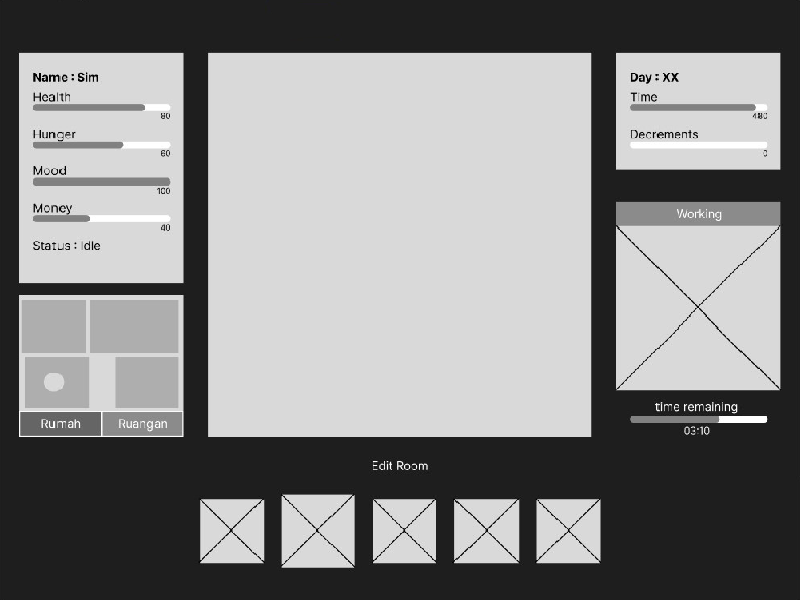
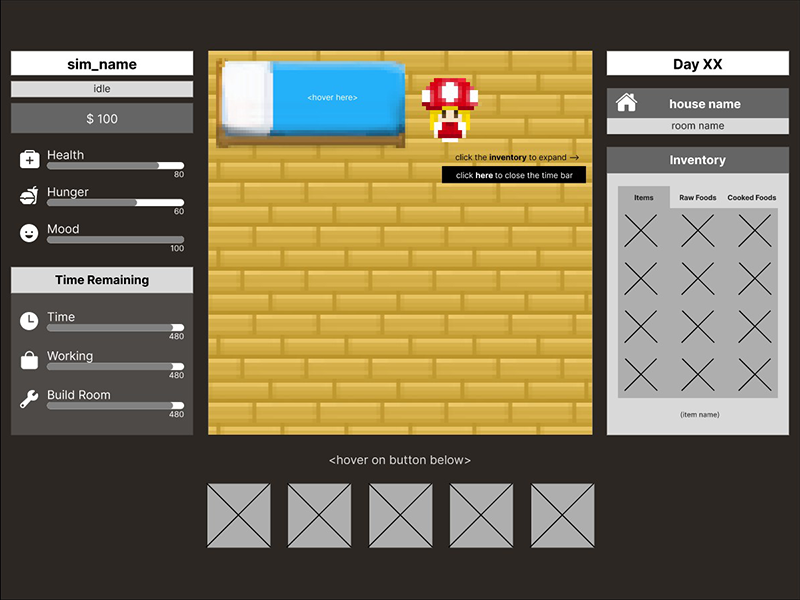
updated mockup ui

diff --git a/src/main/UserInterface.java b/src/main/UserInterface.java
@@ -23,11 +23,11 @@ public class UserInterface {
     private BufferedImage mockup;
 
     // Selection Box Attributes
-    private int selectedBoxX = 196 - 8;  // Initial x position of selected box
-    private int selectedBoxY = 500 - 8;  // Initial y position of selected box
-    private int selectedBoxWidth = Consts.SCALED_TILE + 16;  // Width of selected box
-    private int selectedBoxHeight = Consts.SCALED_TILE + 16;  // Height of selected box
-    private int boxStep = 86;  // Amount to change box position with each key press
+    private int selectedBoxX = 207 - 4;  // Initial x position of selected box
+    private int selectedBoxY = 483 - 4;  // Initial y position of selected box
+    private int selectedBoxWidth = Consts.SCALED_TILE + 8;  // Width of selected box
+    private int selectedBoxHeight = Consts.SCALED_TILE + 8;  // Height of selected box
+    private int boxStep = 81;  // Amount to change box position with each key press
     private int selectedBox = 0; // Boxes starting from 0 to 4
 
     public UserInterface(Sim sim, GameTime time) {
@@ -105,19 +105,26 @@ public class UserInterface {
 
     public void draw(Graphics2D g) {
         // ONLY FOR DEBUGGING
-        // g.setColor(new Color(0, 0, 0, 128)); // Transparent black color
+        g.setColor(new Color(0, 0, 0, 128)); // Transparent black color
         
         // Draw box for filling text
+        g.setColor(Color.WHITE);
+        g.fillRect(11, 51, 182, 24); // Sim name
+        g.fillRect(607, 51, 182, 24); // Day number
+        g.setColor(Color.LIGHT_GRAY);
+        g.fillRect(11, 81, 182, 16); // Sim status
+        g.fillRect(11, 266, 182, 28); // Time remaining title
         g.setColor(Color.GRAY);
-        g.fillRect(19, 53, 165, 230); // Sim status
-        g.fillRect(616, 53, 165, 77); // Day number and time remaining
+        g.fillRect(11, 103, 182, 30); // Sim money
+        g.fillRect(11, 294, 182, 58); // Time remaining
+        // g.fillRect(607, 88, 182, 64); // House and Room name
 
         // Draw option boxes
-        g.fillRect(196, 500, Consts.SCALED_TILE, Consts.SCALED_TILE);
-        g.fillRect(282, 500, Consts.SCALED_TILE, Consts.SCALED_TILE);
-        g.fillRect(368, 500, Consts.SCALED_TILE, Consts.SCALED_TILE);
-        g.fillRect(454, 500, Consts.SCALED_TILE, Consts.SCALED_TILE);
-        g.fillRect(540, 500, Consts.SCALED_TILE, Consts.SCALED_TILE);
+        g.fillRect(207, 483, Consts.SCALED_TILE, Consts.SCALED_TILE);
+        g.fillRect(288, 483, Consts.SCALED_TILE, Consts.SCALED_TILE);
+        g.fillRect(369, 483, Consts.SCALED_TILE, Consts.SCALED_TILE);
+        g.fillRect(450, 483, Consts.SCALED_TILE, Consts.SCALED_TILE);
+        g.fillRect(531, 483, Consts.SCALED_TILE, Consts.SCALED_TILE);
 
         // Draw selected box
         if (sim.isStatusCurrently("Tabbed")) {
@@ -125,18 +132,23 @@ public class UserInterface {
             g.fillRect(selectedBoxX, selectedBoxY, selectedBoxWidth, selectedBoxHeight);
             drawSelectedBoxText(g);
         }
+
         drawText(g);
     }
 
     private void drawText(Graphics2D g) {
         Font font;
-        g.setColor(Color.WHITE);
+        g.setColor(Color.BLACK);
 
         font = new Font("Arial", Font.BOLD, 13);
 
         g.setFont(font);
-        g.drawString(sim.getName(), 33, 82);
-        g.drawString("Day : " + time.getDay(), 630, 82);
+        g.drawString(sim.getName(), 83, 68);
+        
+        g.drawString("Day " + time.getDay(), 675, 68);
+        g.drawString("Time Remaining", 53, 285);
+
+        g.setColor(Color.WHITE);
 
         drawAttributes(g);
 
@@ -164,22 +176,27 @@ public class UserInterface {
     }
 
     private void drawAttributes(Graphics2D g) {
-        Font font = new Font("Arial", Font.PLAIN, 12);
+        Font font = new Font("Arial", Font.PLAIN, 10);
 
+        g.setColor(Color.BLACK);
         g.setFont(font);
-        g.drawString("Health", 33, 101);
-        g.drawString("Hunger", 33, 138);
-        g.drawString("Mood", 33, 175);
-        g.drawString("Money", 33, 212);
-        g.drawString("Status : " + sim.getStatus(), 33, 249);
+        g.drawString("" + sim.getStatus(), 90, 93);
 
-        g.drawString("Time", 630, 101);
+        font = new Font("Arial", Font.PLAIN, 12);
+        g.setFont(font);
+        g.setColor(Color.WHITE);
 
-        drawValue(g, sim.getHealth(), 160, 0);
-        drawValue(g, sim.getHunger(), 160, 1);
-        drawValue(g, sim.getMood(), 160, 2);
-        drawValue(g, sim.getMoney(), 160, 3);
-        drawValue(g, time.getTimeRemaining(), 757, 0);
+        g.drawString("Health", 48, 159);
+        g.drawString("Hunger", 48, 196);
+        g.drawString("Mood", 48, 233);
+        g.drawString("$ " + sim.getMoney(), 87, 123);
+        
+        g.drawString("Time", 48, 320);
+        
+        drawValue(g, sim.getHealth(), 174, 0);
+        drawValue(g, sim.getHunger(), 174, 1);
+        drawValue(g, sim.getMood(), 174, 2);
+        drawTime(g, time.getTimeRemaining(), 174, 0);
     }
 
     private void drawValue(Graphics2D g, int value, int offsetX, int offsetY) {
@@ -187,10 +204,22 @@ public class UserInterface {
 
         g.setFont(font);
         if (value < 100) {
-            g.drawString("" + value, offsetX, 120 + (37 * offsetY));
+            g.drawString("" + value, offsetX, 177 + (37 * offsetY));
         }
         else {
-            g.drawString("" + value, offsetX - 5, 120 + (37 * offsetY));
+            g.drawString("" + value, offsetX - 5, 177 + (37 * offsetY));
+        }
+    }
+
+    private void drawTime(Graphics2D g, int value, int offsetX, int offsetY) {
+        Font font = new Font("Arial", Font.PLAIN, 9);
+
+        g.setFont(font);
+        if (value < 100) {
+            g.drawString("" + value, offsetX, 340 + (37 * offsetY));
+        }
+        else {
+            g.drawString("" + value, offsetX - 5, 340 + (37 * offsetY));
         }
     }
 
@@ -200,13 +229,13 @@ public class UserInterface {
         g.setFont(font);
         switch (selectedBox) {
             case 1:
-                g.drawString("Add Object", Consts.CENTER_X - 22, Consts.CENTER_Y + 180);
+                g.drawString("Add Object", Consts.CENTER_X - 22, Consts.CENTER_Y + 172);
                 break;
             case 2:
-                g.drawString("Edit Room", Consts.CENTER_X - 18, Consts.CENTER_Y + 180);
+                g.drawString("Edit Room", Consts.CENTER_X - 18, Consts.CENTER_Y + 172);
                 break;
             default:
-                g.drawString("Lorem Ipsum", Consts.CENTER_X - 28, Consts.CENTER_Y + 180);
+                g.drawString("Lorem Ipsum", Consts.CENTER_X - 28, Consts.CENTER_Y + 172);
                 break;
         }
     }

diff --git a/src/main/GamePanel.java b/src/main/GamePanel.java
@@ -20,10 +20,10 @@ public class GamePanel extends JPanel implements Runnable {
 
     public GamePanel() {
         setPreferredSize(new Dimension(Consts.WIDTH, Consts.HEIGHT));
-        setBackground(new Color(30, 30, 30));
+        setBackground(new Color(44, 39, 35));
 
         // Create game time
-        time = new GameTime(1, 720, 720);
+        time = new GameTime(1, 720);
 
         // Create room
         room = new Room("Starter Room", time);
@@ -111,7 +111,6 @@ public class GamePanel extends JPanel implements Runnable {
         Graphics2D g2 = (Graphics2D) g;
 
         // ONLY FOR DEBUGGING
-        // background.drawGrid(g2);
         // ui.drawMockup(g2);
 
         // Draw room

diff --git a/src/main/Consts.java b/src/main/Consts.java
@@ -16,5 +16,5 @@ public abstract class Consts {
     public static final int PLAY_ARENA_Y_UP = 48;
     public static final int PLAY_ARENA_X_RIGHT = PLAY_ARENA_X_LEFT + (SCALED_TILE * 5);
     public static final int PLAY_ARENA_Y_DOWN = PLAY_ARENA_Y_UP + (SCALED_TILE * 5);
-    public static final int OFFSET_Y = 55;
+    public static final int OFFSET_Y = 57;
 }
